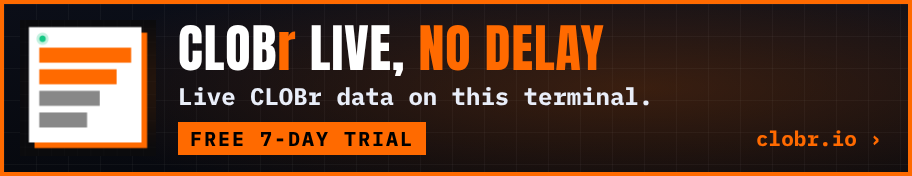
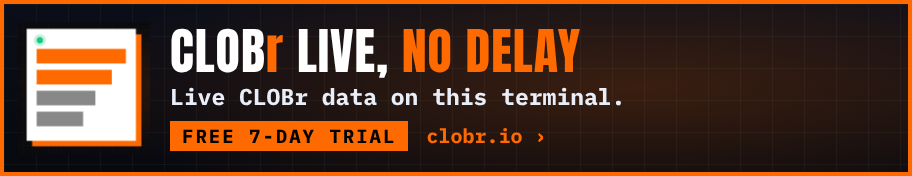
Token pages: house ads drawn at each box's own shape (no stretch, no bands)
Same as T7 #245 for terminal/token + classic: slot 1 uses 1120x300 art (-w;
the plain s1 files stay as the stream's, whose box is another shape), slots
2-3 912x176 or the 736x220 -b version by box ratio, cover-fit, tag in the
corner the art keeps clear. stream/index.html untouched.

Claude-Session: https://claude.ai/code/session_019nRdB8HWDpX2PshFTJDTCF

Changed region(s): [[0.0307, 0.142, 0.7368, 0.8807], [0.8289, 0.7386, 0.9825, 0.8523]]

diff --git a/terminal/token.html b/terminal/token.html
@@ -275,10 +275,10 @@ body.norew .stat.pulse,body.norew .stat.pay{display:none}body.norew .stat.qt{gri
 #ttsPop .from{font-size:13px;color:var(--amber);letter-spacing:2px;text-transform:uppercase}
 #ttsPop .msg{font-family:'VT323';font-size:44px;line-height:1.05;color:#fff;margin-top:6px;word-break:break-word}
 .board.house{padding:0;overflow:hidden;background:#07090f;border:1px solid #2a3a6a}
-/* house / sponsor art (10-19): shown whole at its own shape (never stretched), the price / sponsor tag in a strip under it (it used to cover the art) */
-.board.house .hw{position:absolute;inset:0;display:flex;flex-direction:column;color:inherit;text-decoration:none}
-.board.house .hw img{position:static;flex:1 1 0;min-height:0;width:100%;height:auto;object-fit:contain}
-.board.house .htag{flex:none;text-align:right;background:#000d;color:var(--amber);font-size:10px;letter-spacing:1px;padding:2px 6px;line-height:1.3}
+/* house / sponsor art (10-19): drawn at each box's own shape (slot 1 1120x300; slots 2-3 912x176 wide, -b 736x220 for the token page's boxier ones), so it fills the box unstretched; the price / sponsor tag sits in the bottom-right corner the art keeps empty */
+.board.house .hw{position:absolute;inset:0;display:block;color:inherit;text-decoration:none}
+.board.house .hw img{position:absolute;inset:0;width:100%;height:100%;object-fit:cover}
+.board.house .htag{position:absolute;right:0;bottom:0;background:#000d;color:var(--amber);font-size:10px;letter-spacing:1px;padding:2px 6px;line-height:1.3}
 .board.house a.sp .htag{color:var(--green)}
 .board.house a.sp:hover .htag{background:var(--green);color:#000}
 .board.house:hover .htag{background:var(--amber);color:#000}
@@ -518,7 +518,7 @@ html.fit #tip{font-size:20px;padding:10px 14px}
   #chartWrap{height:clamp(280px,70vw,380px)}   /* phones 280 px, tablets up to 380 */
   #mbList .br,#mbList .bh{grid-template-columns:16px 22px minmax(0,1fr) repeat(3,minmax(0,64px));gap:6px;font-size:12px}#mbList img{width:22px;height:22px}#mbList .sym .q{display:none}#mbList .bh{font-size:9px;letter-spacing:.5px}
   .post .txt{-webkit-line-clamp:3}
-  .board{min-height:90px}#slot1{aspect-ratio:1112/358;min-height:0}.slots .board.house,.slots .board.img{aspect-ratio:912/176;min-height:0}.board.house{aspect-ratio:auto!important;min-height:0}.board.house .hw{position:relative;inset:auto}.board.house .hw img{flex:none}.bill .board.sold .head,.board.sold .head{font-size:30px}
+  .board{min-height:90px}#slot1{aspect-ratio:1120/300;min-height:0}.slots .board.house,.slots .board.img{aspect-ratio:912/176;min-height:0}.bill .board.sold .head,.board.sold .head{font-size:30px}
   .src .fx{display:none}.src{padding:6px 12px}
   #mbar{display:grid;grid-template-columns:1.45fr .6fr 1.2fr .85fr;gap:6px;position:fixed;left:0;right:0;bottom:0;z-index:45;padding:8px 10px calc(8px + env(safe-area-inset-bottom));background:rgba(4,6,15,.96);border-top:1px solid var(--line);backdrop-filter:blur(6px)}
   #mbar .btn{text-align:center;padding:11px 4px;font-size:12px;letter-spacing:0;text-decoration:none;white-space:nowrap;overflow:hidden;text-overflow:ellipsis}
@@ -1740,21 +1740,22 @@ function renderAds(){['1','2','3'].forEach(k=>{const el=$('slot'+k);if(!el)retur
 // traffic actually attributes. House cards still open the checkout.
 const HOUSE={'1':['s1-better-call-sergey','s1-holding-alone','s1-plaid-motors'],'2':['s2-paper-hands','s2-youre-reading-this'],'3':['s3-bankers-hate','s3-sergey-associates']};
 const SPONSOR={
-  '1':[{img:'/terminal/house/s1-jtx.png',href:'https://app.jtx.com/ref/TheMarines',tag:'JTX · JOIN ▸'},
-       {img:'/terminal/house/s1-clobr.png',href:'https://clobr.io?ref=DF92VC53',tag:'CLOBr · OPEN ▸'},
-       {img:'/terminal/house/s1-clobr-pro.png',href:'https://clobr.io/premium?ref=DF92VC53',tag:'CLOBr PRO · 7 DAYS FREE ▸'},
-       {img:'/terminal/house/s1-bridge.png',href:'/bridge/',tag:'NEW TO SOLANA? ▸'}],
-  '2':[{img:'/terminal/house/s2-clobr.png',href:'https://clobr.io?ref=DF92VC53',tag:'CLOBr · OPEN ▸'},{img:'/terminal/house/s2-bridge.png',href:'/bridge/',tag:'NEW TO SOLANA? ▸'}],
-  '3':[{img:'/terminal/house/s2-clobr-pro.png',href:'https://clobr.io/premium?ref=DF92VC53',tag:'CLOBr PRO · 7 DAYS FREE ▸'}]
+  '1':[{img:'/terminal/house/s1-jtx.png',href:'https://app.jtx.com/ref/TheMarines',tag:'JTX ▸'},
+       {img:'/terminal/house/s1-clobr.png',href:'https://clobr.io?ref=DF92VC53',tag:'CLOBr ▸'},
+       {img:'/terminal/house/s1-clobr-pro.png',href:'https://clobr.io/premium?ref=DF92VC53',tag:'CLOBr PRO ▸'},
+       {img:'/terminal/house/s1-bridge.png',href:'/bridge/',tag:'BRIDGE ▸'}],
+  '2':[{img:'/terminal/house/s2-clobr.png',href:'https://clobr.io?ref=DF92VC53',tag:'CLOBr ▸'},{img:'/terminal/house/s2-bridge.png',href:'/bridge/',tag:'BRIDGE ▸'}],
+  '3':[{img:'/terminal/house/s2-clobr-pro.png',href:'https://clobr.io/premium?ref=DF92VC53',tag:'CLOBr PRO ▸'}]
 };
 function fillers(k){return [...(HOUSE[k]||[]).map(n=>({house:n})),...(SPONSOR[k]||[])]}
-// letterbox colour per house / sponsor image (its edge), so a box of another shape shows the art whole
-const HBG={"s1-better-call-sergey":"#ff0000","s1-bridge":"#07090f","s1-clobr-pro":"#07090f","s1-clobr":"#07090f","s1-helius":"#07090f","s1-holding-alone":"#ff50e6","s1-jtx":"#07090f","s1-plaid-motors":"#0034be","s1-stonkfun":"#07090f","s2-bridge":"#07090f","s2-clobr-pro":"#07090f","s2-clobr":"#07090f","s2-helius":"#07090f","s2-paper-hands":"#0000c8","s2-stonkfun-community":"#07090f","s2-stonkfun":"#07090f","s2-youre-reading-this":"#07090f","s3-bankers-hate":"#ffffbe","s3-sergey-associates":"#07090f"};
+// slot 1: the 1120x300 art (-w; the plain s1 files stay the stream's, its box is another shape); slots 2-3: the boxier art (-b) when the box is under 4.2:1 (the token page's desktop boxes), else the wide one
+const ART=(k,src)=>{const el=$('slot'+k);if(k==='1')return src.replace(/\.png$/,'-w.png');return el&&el.clientHeight&&el.clientWidth/el.clientHeight<4.2?src.replace(/\.png$/,'-b.png'):src};
+addEventListener('resize',()=>{clearTimeout(renderAds.t);renderAds.t=setTimeout(renderAds,200)});
 function houseAd(k,pr){
   const L=fillers(k);if(!L.length)return'';
   const f=L[Math.floor(Date.now()/20000+ +k)%L.length];
-  if(f.house)return `<div class="hw" style="background:${HBG[f.house]||'#07090f'}"><img src="/terminal/house/${f.house}.png" alt="ad space open"><span class="htag">${PAY?WAS(PAY.was?.slots?.[k],PAY.prices.slots[k])+'$'+PAY.prices.slots[k]+'/'+PAY.blockMinutes+'M · ':''}BUY ▸</span></div>`;
-  return `<a class="sp hw" style="background:${HBG[(f.img.match(/([\w-]+)\.png$/)||[])[1]]||'#07090f'}" href="${esc(f.href)}" target="_blank" rel="noopener sponsored"><img src="${esc(f.img)}" alt=""><span class="htag">${esc(f.tag)}</span></a>`}
+  if(f.house)return `<div class="hw"><img src="${ART(k,'/terminal/house/'+f.house+'.png')}" alt="ad space open"><span class="htag">${PAY?WAS(PAY.was?.slots?.[k],PAY.prices.slots[k])+'$'+PAY.prices.slots[k]+'/'+PAY.blockMinutes+'M · ':''}BUY ▸</span></div>`;
+  return `<a class="sp hw" href="${esc(f.href)}" target="_blank" rel="noopener sponsored"><img src="${esc(ART(k,f.img))}" alt=""><span class="htag">${esc(f.tag)}</span></a>`}
 function fillSlotSel(){if(!PAY)return;$('fSlot').innerHTML=['1','2','3'].map(k=>`<option value="${k}">${SLOTN[k]} · $${PAY.prices.slots[k]}/${PAY.blockMinutes}m${PAY.was?.slots?.[k]>PAY.prices.slots[k]?' (was $'+PAY.was.slots[k]+')':''}</option>`).join('');
   $('fBlocks').innerHTML=Array.from({length:PAY.maxBlocks},(_,i)=>`<option value="${i+1}">${(i+1)*PAY.blockMinutes} min</option>`).join('')}
 let imgId=null,imgBusy=false;

diff --git a/terminal/classic.html b/terminal/classic.html
@@ -171,10 +171,10 @@ tr.whale td{background:rgba(74,122,255,.08)}
 #ttsPop .from{font-size:13px;color:var(--amber);letter-spacing:2px;text-transform:uppercase}
 #ttsPop .msg{font-family:'VT323';font-size:44px;line-height:1.05;color:#fff;margin-top:6px;word-break:break-word}
 .board.house{padding:0;overflow:hidden;background:#07090f;border:1px solid #2a3a6a}
-/* house / sponsor art (10-19): shown whole at its own shape (never stretched), the price / sponsor tag in a strip under it (it used to cover the art) */
-.board.house .hw{position:absolute;inset:0;display:flex;flex-direction:column;color:inherit;text-decoration:none}
-.board.house .hw img{position:static;flex:1 1 0;min-height:0;width:100%;height:auto;object-fit:contain}
-.board.house .htag{flex:none;text-align:right;background:#000d;color:var(--amber);font-size:10px;letter-spacing:1px;padding:2px 6px;line-height:1.3}
+/* house / sponsor art (10-19): drawn at each box's own shape (slot 1 1120x300; slots 2-3 912x176 wide, -b 736x220 for the token page's boxier ones), so it fills the box unstretched; the price / sponsor tag sits in the bottom-right corner the art keeps empty */
+.board.house .hw{position:absolute;inset:0;display:block;color:inherit;text-decoration:none}
+.board.house .hw img{position:absolute;inset:0;width:100%;height:100%;object-fit:cover}
+.board.house .htag{position:absolute;right:0;bottom:0;background:#000d;color:var(--amber);font-size:10px;letter-spacing:1px;padding:2px 6px;line-height:1.3}
 .board.house a.sp .htag{color:var(--green)}
 .board.house a.sp:hover .htag{background:var(--green);color:#000}
 .board.house:hover .htag{background:var(--amber);color:#000}
@@ -346,7 +346,7 @@ html.fit #tip{font-size:20px;padding:10px 14px}
   #chartWrap{height:230px}
   #mbList .br,#mbList .bh{grid-template-columns:16px 22px minmax(0,1fr) repeat(3,minmax(0,64px));gap:6px;font-size:12px}#mbList img{width:22px;height:22px}#mbList .sym .q{display:none}#mbList .bh{font-size:9px;letter-spacing:.5px}
   .post .txt{-webkit-line-clamp:3}
-  .board{min-height:90px}#slot1{aspect-ratio:1112/358;min-height:0}.slots .board.house,.slots .board.img{aspect-ratio:912/176;min-height:0}.board.house{aspect-ratio:auto!important;min-height:0}.board.house .hw{position:relative;inset:auto}.board.house .hw img{flex:none}.bill .board.sold .head,.board.sold .head{font-size:30px}
+  .board{min-height:90px}#slot1{aspect-ratio:1120/300;min-height:0}.slots .board.house,.slots .board.img{aspect-ratio:912/176;min-height:0}.bill .board.sold .head,.board.sold .head{font-size:30px}
   .src .fx{display:none}.src{padding:6px 12px}
   #mbar{display:grid;grid-template-columns:1.3fr 1fr 1fr;gap:6px;position:fixed;left:0;right:0;bottom:0;z-index:45;padding:8px 10px calc(8px + env(safe-area-inset-bottom));background:rgba(4,6,15,.96);border-top:1px solid var(--line);backdrop-filter:blur(6px)}
   #mbar .btn{text-align:center;padding:11px 6px;font-size:12px;text-decoration:none}
@@ -856,19 +856,20 @@ function renderAds(){['1','2','3'].forEach(k=>{const el=$('slot'+k);if(!el)retur
 // traffic actually attributes. House cards still open the checkout.
 const HOUSE={'1':['s1-better-call-sergey','s1-holding-alone','s1-plaid-motors'],'2':['s2-paper-hands','s2-youre-reading-this'],'3':['s3-bankers-hate','s3-sergey-associates']};
 const SPONSOR={
-  '1':[{img:'house/s1-jtx.png',href:'https://app.jtx.com/ref/TheMarines',tag:'JTX · JOIN ▸'},
-       {img:'house/s1-clobr.png',href:'https://clobr.io?ref=DF92VC53',tag:'CLOBr · OPEN ▸'}],
-  '2':[{img:'house/s2-clobr.png',href:'https://clobr.io?ref=DF92VC53',tag:'CLOBr · OPEN ▸'}],
-  '3':[{img:'house/s2-clobr.png',href:'https://clobr.io?ref=DF92VC53',tag:'CLOBr · OPEN ▸'}]
+  '1':[{img:'house/s1-jtx.png',href:'https://app.jtx.com/ref/TheMarines',tag:'JTX ▸'},
+       {img:'house/s1-clobr.png',href:'https://clobr.io?ref=DF92VC53',tag:'CLOBr ▸'}],
+  '2':[{img:'house/s2-clobr.png',href:'https://clobr.io?ref=DF92VC53',tag:'CLOBr ▸'}],
+  '3':[{img:'house/s2-clobr.png',href:'https://clobr.io?ref=DF92VC53',tag:'CLOBr ▸'}]
 };
 function fillers(k){return [...(HOUSE[k]||[]).map(n=>({house:n})),...(SPONSOR[k]||[])]}
-// letterbox colour per house / sponsor image (its edge), so a box of another shape shows the art whole
-const HBG={"s1-better-call-sergey":"#ff0000","s1-bridge":"#07090f","s1-clobr-pro":"#07090f","s1-clobr":"#07090f","s1-helius":"#07090f","s1-holding-alone":"#ff50e6","s1-jtx":"#07090f","s1-plaid-motors":"#0034be","s1-stonkfun":"#07090f","s2-bridge":"#07090f","s2-clobr-pro":"#07090f","s2-clobr":"#07090f","s2-helius":"#07090f","s2-paper-hands":"#0000c8","s2-stonkfun-community":"#07090f","s2-stonkfun":"#07090f","s2-youre-reading-this":"#07090f","s3-bankers-hate":"#ffffbe","s3-sergey-associates":"#07090f"};
+// slot 1: the 1120x300 art (-w; the plain s1 files stay the stream's, its box is another shape); slots 2-3: the boxier art (-b) when the box is under 4.2:1 (the token page's desktop boxes), else the wide one
+const ART=(k,src)=>{const el=$('slot'+k);if(k==='1')return src.replace(/\.png$/,'-w.png');return el&&el.clientHeight&&el.clientWidth/el.clientHeight<4.2?src.replace(/\.png$/,'-b.png'):src};
+addEventListener('resize',()=>{clearTimeout(renderAds.t);renderAds.t=setTimeout(renderAds,200)});
 function houseAd(k,pr){
   const L=fillers(k);if(!L.length)return'';
   const f=L[Math.floor(Date.now()/20000+ +k)%L.length];
-  if(f.house)return `<div class="hw" style="background:${HBG[f.house]||'#07090f'}"><img src="house/${f.house}.png" alt="ad space open"><span class="htag">${PAY?'$'+PAY.prices.slots[k]+'/'+PAY.blockMinutes+'M · ':''}BUY ▸</span></div>`;
-  return `<a class="sp hw" style="background:${HBG[(f.img.match(/([\w-]+)\.png$/)||[])[1]]||'#07090f'}" href="${esc(f.href)}" target="_blank" rel="noopener sponsored"><img src="${esc(f.img)}" alt=""><span class="htag">${esc(f.tag)}</span></a>`}
+  if(f.house)return `<div class="hw"><img src="${ART(k,'house/'+f.house+'.png')}" alt="ad space open"><span class="htag">${PAY?'$'+PAY.prices.slots[k]+'/'+PAY.blockMinutes+'M · ':''}BUY ▸</span></div>`;
+  return `<a class="sp hw" href="${esc(f.href)}" target="_blank" rel="noopener sponsored"><img src="${esc(ART(k,f.img))}" alt=""><span class="htag">${esc(f.tag)}</span></a>`}
 function fillSlotSel(){if(!PAY)return;$('fSlot').innerHTML=['1','2','3'].map(k=>`<option value="${k}">${SLOTN[k]} · $${PAY.prices.slots[k]}/${PAY.blockMinutes}m</option>`).join('');
   $('fBlocks').innerHTML=Array.from({length:PAY.maxBlocks},(_,i)=>`<option value="${i+1}">${(i+1)*PAY.blockMinutes} min</option>`).join('')}
 let imgId=null,imgBusy=false;
